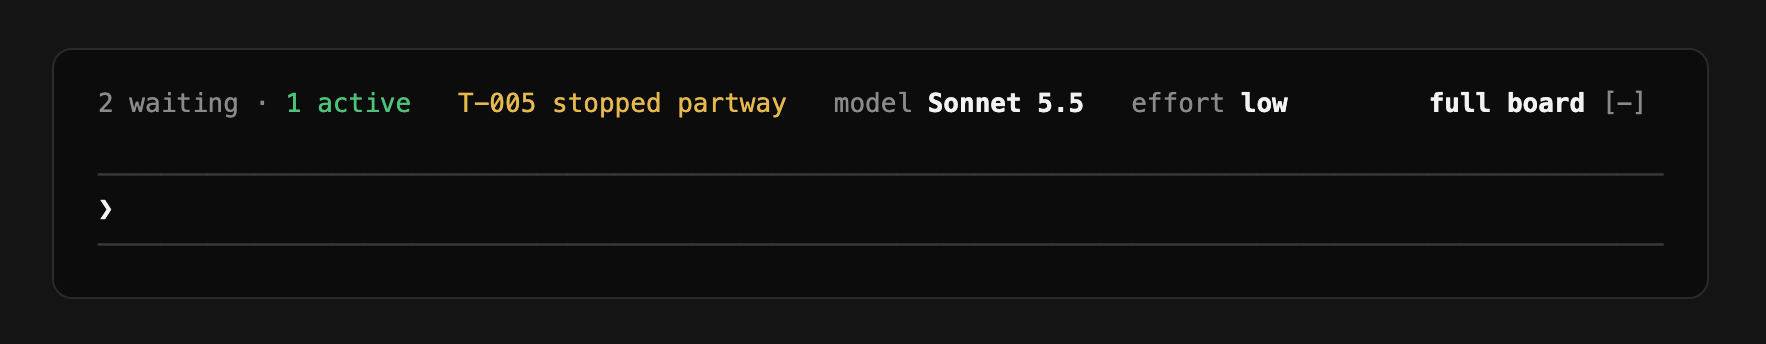
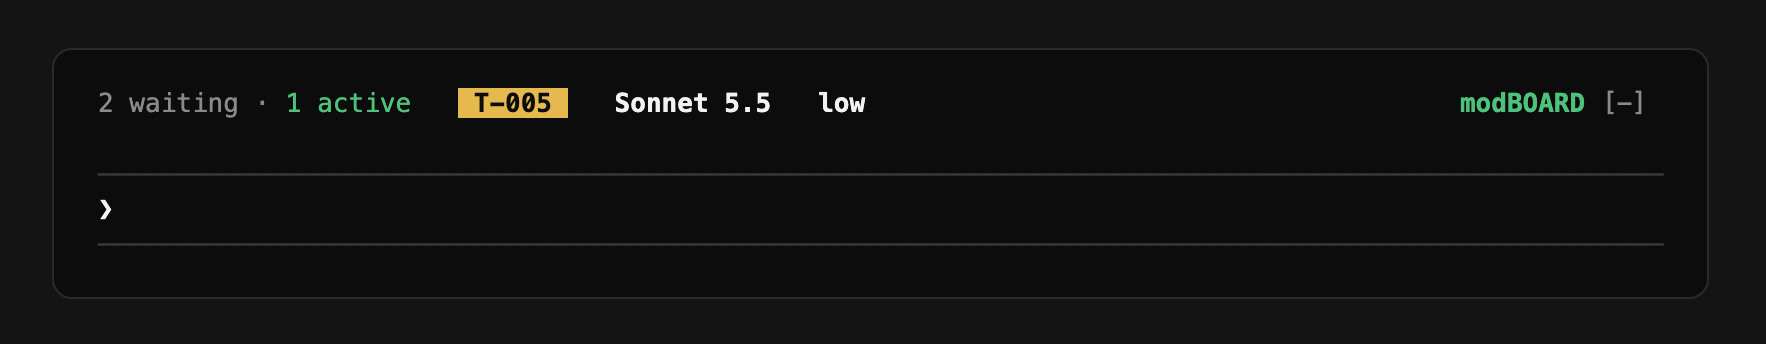
Redraw the diagrams and the band image
The band image drops the word after the task box. The system diagram shows
the automatic names and Unfinished; the blocks diagram lists the board
block and the newer actions.

Changed region(s): [[0.2492, 0.2326, 0.7475, 0.3488], [0.8097, 0.2616, 0.9032, 0.3488]]

diff --git a/docs/system.html b/docs/system.html
@@ -15,11 +15,12 @@
   <span class="d">┌</span><span class="d">─</span><span class="d">─</span><span class="d">─</span><span class="d">─</span><span class="d">─</span><span class="d">─</span><span class="d">─</span><span class="d">─</span><span class="d">─</span><span class="d">─</span><span class="d">─</span><span class="d">─</span><span class="d">─</span><span class="d">─</span><span class="d">─</span><span class="d">─</span><span class="d">─</span><span class="d">─</span><span class="d">─</span><span class="d">─</span><span class="d">─</span><span class="d">─</span><span class="d">─</span><span class="d">─</span><span class="d">─</span><span class="d">─</span><span class="d">─</span><span class="d">─</span><span class="d">─</span><span class="d">─</span><span class="d">─</span><span class="d">─</span><span class="d">─</span><span class="d">─</span><span class="d">─</span><span class="d">─</span><span class="d">─</span><span class="d">─</span><span class="d">─</span><span class="d">─</span><span class="d">─</span><span class="d">┐</span>      <span class="d">┌</span><span class="d">─</span><span class="d">─</span><span class="d">─</span><span class="d">─</span><span class="d">─</span><span class="d">─</span><span class="d">─</span><span class="d">─</span><span class="d">─</span><span class="d">─</span><span class="d">─</span><span class="d">─</span><span class="d">─</span><span class="d">─</span><span class="d">─</span><span class="d">─</span><span class="d">─</span><span class="d">─</span><span class="d">─</span><span class="d">─</span><span class="d">─</span><span class="d">─</span><span class="d">─</span><span class="d">─</span><span class="d">─</span><span class="d">─</span><span class="d">─</span><span class="d">─</span><span class="d">─</span><span class="d">─</span><span class="d">─</span><span class="d">─</span><span class="d">─</span><span class="d">─</span><span class="d">─</span><span class="d">─</span><span class="d">─</span><span class="d">─</span><span class="d">─</span><span class="d">─</span><span class="d">─</span><span class="d">┐</span>
   <span class="d">│</span> Claude Code session  (the mod)          <span class="d">│</span>      <span class="d">│</span> Codex · OpenCode · a shell · a person   <span class="d">│</span>
   <span class="d">│</span>                                         <span class="d">│</span>      <span class="d">│</span>                                         <span class="d">│</span>
-  <span class="d">│</span> tools   board_list  board_show          <span class="d">│</span>      <span class="d">│</span> board claim T-001 --as codex            <span class="d">│</span>
+  <span class="d">│</span> tools   board_list  board_show          <span class="d">│</span>      <span class="d">│</span> board claim T-001                       <span class="d">│</span>
   <span class="d">│</span>         board_add   board_claim         <span class="d">│</span>      <span class="d">│</span> board note · release · done             <span class="d">│</span>
   <span class="d">│</span>         board_note  board_release       <span class="d">│</span>      <span class="d">│</span>                                         <span class="d">│</span>
   <span class="d">│</span>         board_done                      <span class="d">│</span>      <span class="d">│</span>                                         <span class="d">│</span>
-  <span class="d">│</span> name    BOARD_AGENT, else claude:&lt;id&gt;   <span class="d">│</span>      <span class="d">│</span> name    BOARD_AGENT, or --as            <span class="d">│</span>
+  <span class="d">│</span> name    claude 1, claude 2 … or         <span class="d">│</span>      <span class="d">│</span> name    codex 1 … by its thread, or     <span class="d">│</span>
+  <span class="d">│</span>         BOARD_AGENT                     <span class="d">│</span>      <span class="d">│</span>         BOARD_AGENT, or --as            <span class="d">│</span>
   <span class="d">│</span> alive   heartbeat on tool calls,        <span class="d">│</span>      <span class="d">│</span> alive   board heartbeat, or a note      <span class="d">│</span>
   <span class="d">│</span>         presence ping every 60 s        <span class="d">│</span>      <span class="d">│</span>                                         <span class="d">│</span>
   <span class="d">│</span> ends    releases all, with a handoff    <span class="d">│</span>      <span class="d">│</span>                                         <span class="d">│</span>
@@ -60,8 +61,8 @@
                  <span class="d">┌</span><span class="d">─</span><span class="d">─</span><span class="d">─</span><span class="d">─</span><span class="d">─</span><span class="d">─</span><span class="d">─</span><span class="d">─</span><span class="d">─</span><span class="d">─</span><span class="d">─</span><span class="d">─</span><span class="d">─</span><span class="d">─</span><span class="d">─</span><span class="d">─</span><span class="d">─</span><span class="d">─</span><span class="d">─</span><span class="d">┴</span><span class="d">─</span><span class="d">─</span><span class="d">─</span><span class="d">─</span><span class="d">─</span><span class="d">─</span><span class="d">─</span><span class="d">─</span><span class="d">─</span><span class="d">─</span><span class="d">─</span><span class="d">─</span><span class="d">─</span><span class="d">─</span><span class="d">─</span><span class="d">─</span><span class="d">─</span><span class="d">─</span><span class="d">─</span><span class="d">─</span><span class="d">┐</span>
                  <span class="d">▼</span>                                        <span class="d">▼</span>
         band above the prompt                    /board pane
-        summary · usage · compact                tasks · taskfile · compact · usage
-        model · effort · clock · context         agents · model · effort · clock · context
+        summary · model · effort · modBOARD      tasks · taskfile · compact · usage
+        usage · compact · clock · context        agents · model · effort · clock · context
         + your own blocks                        + your own blocks
 
 
@@ -77,6 +78,6 @@
           <span class="d">│</span> or session silent 3 min     <span class="d">│</span>   <span class="d">│</span>  release --handoff,
           <span class="d">└</span><span class="d">─</span><span class="d">─</span><span class="d">─</span><span class="d">─</span><span class="d">─</span><span class="d">─</span><span class="d">─</span><span class="d">─</span><span class="d">─</span><span class="d">─</span><span class="d">─</span><span class="d">─</span><span class="d">─</span><span class="d">─</span><span class="d">─</span><span class="d">─</span><span class="d">─</span><span class="d">─</span><span class="d">─</span><span class="d">─</span><span class="d">─</span><span class="d">─</span><span class="d">─</span><span class="d">─</span><span class="d">─</span><span class="d">─</span><span class="d">─</span><span class="d">─</span><span class="d">─</span><span class="d">┘</span>   <span class="d">│</span>  or its session ends
                                             <span class="d">▼</span>
-                                          <span class="m">○</span> Stopped partway <span class="d">─</span><span class="d">─</span><span class="d">─</span><span class="d">─</span><span class="d">─</span> claim <span class="d">─</span><span class="d">─</span><span class="d">─</span><span class="d">─</span><span class="d">▶</span> <span class="c">◐</span> In progress
+                                          <span class="m">○</span> Unfinished <span class="d">─</span><span class="d">─</span><span class="d">─</span><span class="d">─</span><span class="d">─</span><span class="d">─</span><span class="d">─</span><span class="d">─</span><span class="d">─</span> claim <span class="d">─</span><span class="d">─</span><span class="d">─</span><span class="d">─</span><span class="d">▶</span> <span class="c">◐</span> In progress
                                                                               (the next agent reads the handoff first)
 </pre></div></body></html>

diff --git a/docs/blocks.html b/docs/blocks.html
@@ -88,10 +88,10 @@
         built in                        your own, no code                 your own, in code
         hooks/blocks/*.tsx              the blocks setting, as JSON:      a file of the same shape
         listed in index.ts              {"ci": "gh run list ..."}         in hooks/blocks/, listed
-        summary · tasks · taskfile      every 30 s: sh -c the command,    in index.ts, in your copy
-        usage · compact · model         show its first line (60 chars)    of the mod: a fork or a PR
-        effort · clock · context
-        agents
+        summary · board · tasks         every 30 s: sh -c the command,    in index.ts, in your copy
+        taskfile · usage · compact      show its first line (60 chars)    of the mod: a fork or a PR
+        model · effort · clock
+        context · agents
             <span class="d">│</span>                               <span class="d">│</span>                                 <span class="d">│</span>
             <span class="d">└</span><span class="d">─</span><span class="d">─</span><span class="d">─</span><span class="d">─</span><span class="d">─</span><span class="d">─</span><span class="d">─</span><span class="d">─</span><span class="d">─</span><span class="d">─</span><span class="d">─</span><span class="d">─</span><span class="d">─</span><span class="d">─</span><span class="d">─</span><span class="d">─</span><span class="d">─</span><span class="d">─</span><span class="d">─</span><span class="d">─</span><span class="d">─</span><span class="d">─</span><span class="d">─</span><span class="d">─</span><span class="d">─</span><span class="d">─</span><span class="d">─</span><span class="d">─</span><span class="d">─</span><span class="d">─</span><span class="d">─</span><span class="d">┼</span><span class="d">─</span><span class="d">─</span><span class="d">─</span><span class="d">─</span><span class="d">─</span><span class="d">─</span><span class="d">─</span><span class="d">─</span><span class="d">─</span><span class="d">─</span><span class="d">─</span><span class="d">─</span><span class="d">─</span><span class="d">─</span><span class="d">─</span><span class="d">─</span><span class="d">─</span><span class="d">─</span><span class="d">─</span><span class="d">─</span><span class="d">─</span><span class="d">─</span><span class="d">─</span><span class="d">─</span><span class="d">─</span><span class="d">─</span><span class="d">─</span><span class="d">─</span><span class="d">─</span><span class="d">─</span><span class="d">─</span><span class="d">─</span><span class="d">─</span><span class="d">┘</span>
                                             <span class="d">▼</span>
@@ -105,8 +105,10 @@
           band?(ctx) <span class="d">─</span><span class="d">─</span><span class="d">▶</span> its forms, widest first      tasks · agents · who you are
                          [ { tree, width }, ... ]     usage · context · model · effort · the time
                          or null: nothing to say      your command blocks' output · the task file
-          pane?(ctx) <span class="d">─</span><span class="d">─</span><span class="d">▶</span> one part of the pane         the width · act: nextModel · nextEffort
-                         or null }                    compact · toggleTaskfile · nextTier
+          pane?(ctx) <span class="d">─</span><span class="d">─</span><span class="d">▶</span> one part of the pane         the width · which groups are open
+                         or null                      act: nextModel · nextEffort · compact
+          brief?(ctx) <span class="d">─</span><span class="d">▶</span> a bar's figures, for the     toggleTaskfile · nextTier · toggleGroup
+                         folded Limits heading }      showGroup · openBoard
 
 
 <span class="h">  DISPLAY BLOCKS</span><span class="d">:  HOW THE BAND FITS ONE LINE</span>
@@ -119,13 +121,11 @@
         4  still too long?  narrow the first block (the summary); its alert outlasts its counts
         5  never wraps; with nothing to say, the line disappears
 
-        94 cols   2 waiting · 1 active   T-005 stopped partway   model Sonnet 5.5   effort low   full board
-        80 cols   2 waiting · 1 active   T-005 stopped partway   Sonnet 5.5   low   full board
-        74 cols   2 waiting · 1 active   T-005 stopped partway   Sonnet 5.5   full board
-        62 cols   2 waiting · 1 active   T-005 stopped partway   full board
-        50 cols   2 waiting · 1 active   T-005 stopped partway
-        42 cols   2 waiting · 1 active   T-005 partway
-        20 cols   T-005 partway
+        66 cols   2 waiting · 1 active   [T-005]   Sonnet 5.5   low   modBOARD
+        60 cols   2 waiting · 1 active   [T-005]   Sonnet 5.5   modBOARD
+        48 cols   2 waiting · 1 active   [T-005]   modBOARD
+        36 cols   2 waiting · 1 active   [T-005]
+        20 cols   [T-005]
 
         the pane has room to spare: each block's part, stacked in the pane setting's order
 </pre></div></body></html>

diff --git a/docs/band.html b/docs/band.html
@@ -4,9 +4,9 @@ body{margin:0;background:#141414}
 .wrap{padding:24px 26px;display:inline-block}
 pre{margin:0;background:#0c0c0c;border:1px solid #2a2a2a;border-radius:10px;padding:18px 22px;
 font:13px/1.35 Menlo,"SF Mono",monospace;color:#dcdcdc}
-.dim{color:#8a8a8a} .ok{color:#4ec27a} .warn{color:#e5b94e} .bold{color:#f2f2f2;font-weight:700}
+.dim{color:#8a8a8a} .ok{color:#4ec27a} .okbold{color:#4ec27a;font-weight:700} .box{background:#e5b94e;color:#0c0c0c;font-weight:700} .warn{color:#e5b94e} .bold{color:#f2f2f2;font-weight:700}
 .rule{color:#3a3a3a} .prompt{color:#f2f2f2}
-</style></head><body><div class="wrap"><pre><span class="dim">2 waiting</span><span class="dim"> · </span><span class="ok">1 active</span>   <span class="warn">T-005 stopped partway</span>   <span class="dim">model </span><span class="bold">Sonnet 5.5</span>   <span class="dim">effort </span><span class="bold">low</span>         <span class="bold">full board</span> <span class="dim">[-]</span>
+</style></head><body><div class="wrap"><pre><span class="dim">2 waiting</span><span class="dim"> · </span><span class="ok">1 active</span>   <span class="box"> T-005 </span>   <span class="bold">Sonnet 5.5</span>   <span class="bold">low</span>                                      <span class="okbold">modBOARD</span> <span class="dim">[-]</span>
 
 <span class="rule">────────────────────────────────────────────────────────────────────────────────────────────────────</span>
 <span class="prompt">❯</span>
